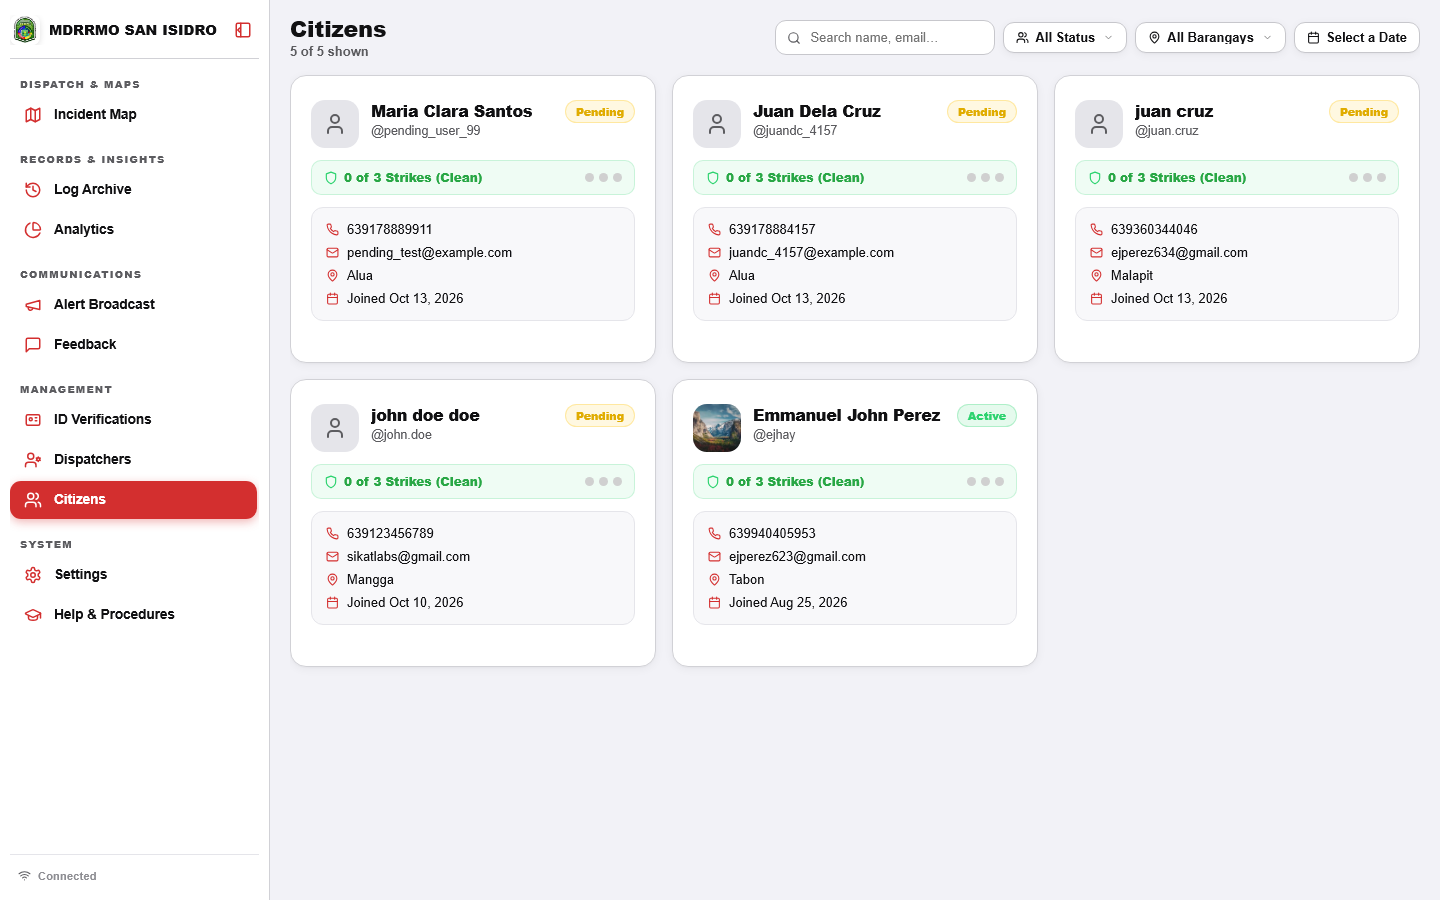
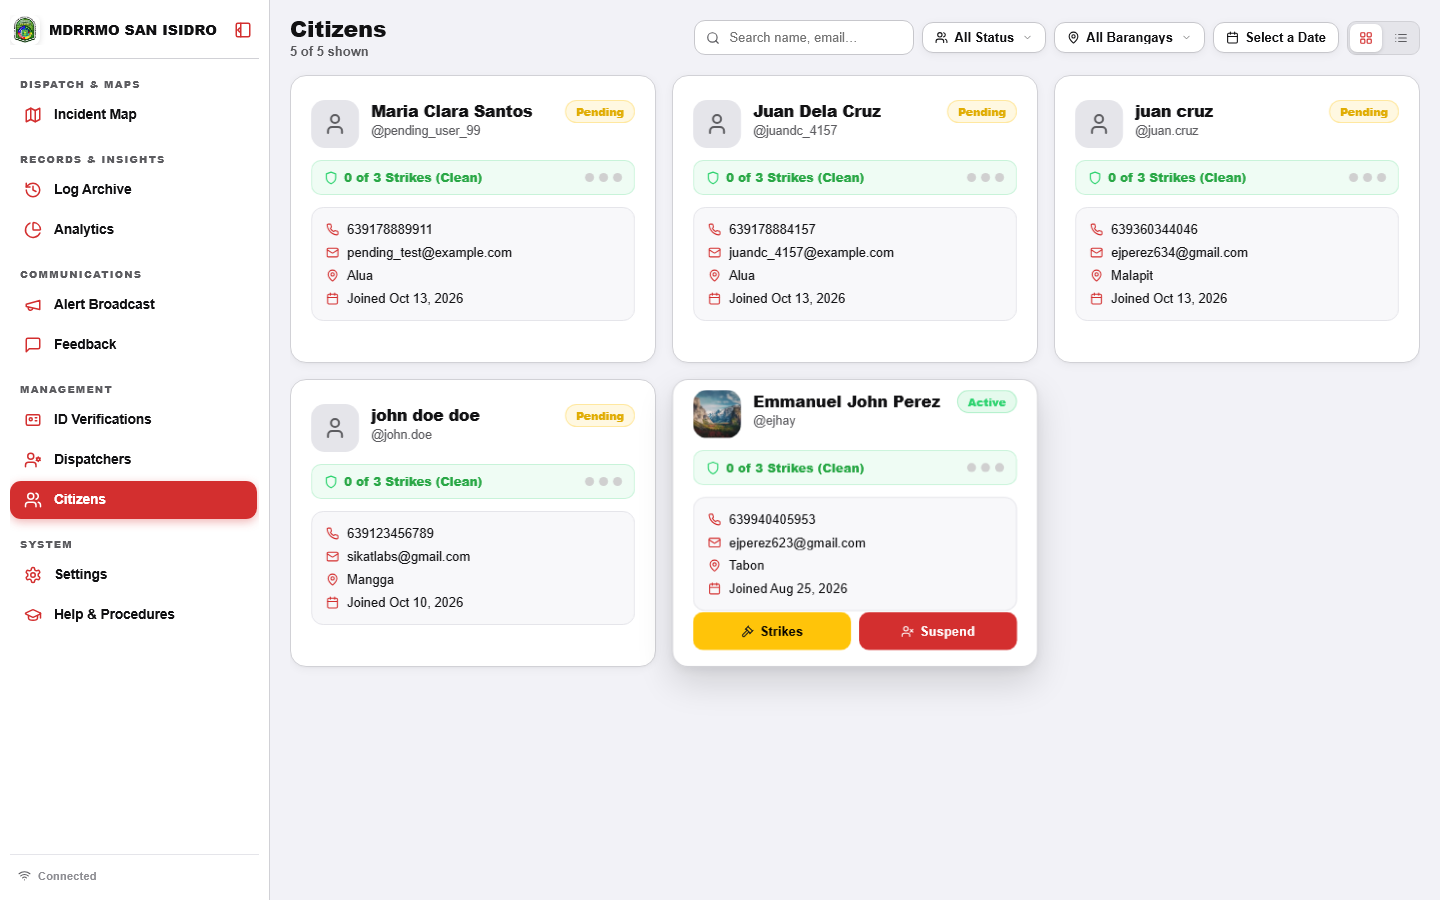
docs(admin): update citizens and dispatchers screenshots with macos finder grid and list views

diff --git a/docs/guides/admin-guide.md b/docs/guides/admin-guide.md
@@ -74,9 +74,15 @@ The **Citizens** panel is a full directory of all registered residents across Sa
 - **Barangay Filter:** Filter residents by any of the 9 official barangays.
 - **Unified Date-Range Filter:** Filter by registration date using Single-Day, Multi-Day, or Custom Date Range.
 - **Status Badges:** `Active`, `Pending`, or `Suspended`.
+- **macOS Finder View Switcher:** Seamlessly switch between the **Grid Card View** and **List Table View** with consistent centered columns and animated card transitions.
+- **Action Menu:** Quick access to citizen actions via hover card controls or an anchored ellipsis button with a pointed popover menu.
 - **Account Moderation:** Suspend abusive accounts (`banned`) or reinstate access with recorded reasons.
 
-![Citizens Directory](../assets/admin/citizens.png)
+### Grid Card View
+![Citizens Directory Grid View](../assets/admin/citizens.png)
+
+### List Table View
+![Citizens Directory List View](../assets/admin/citizens-list.png)
 
 ### False Alarm Strike Manager
 Manage citizen false alarm strikes, issue automated warning notices, and enforce account suspensions directly from the dedicated popup dialog box:
@@ -91,8 +97,13 @@ Dispatchers cannot self-register; they are created and managed directly by admin
 - **Add Dispatcher:** Create a new staff account with Name, Mobile Number, Username, Email, Password, and Assigned Barangay.
 - **Edit Dispatcher:** Update contact details or change assigned information.
 - **Deactivate Dispatcher:** Revoke staff access and invalidate all active session tokens.
+- **macOS Finder View Switcher:** Seamlessly switch between **Grid Card View** and **List Table View** with centered table columns and anchored action dropdowns.
 
-![Staff Dispatchers Directory](../assets/admin/dispatchers.png)
+### Grid Card View
+![Staff Dispatchers Directory Grid View](../assets/admin/dispatchers.png)
+
+### List Table View
+![Staff Dispatchers Directory List View](../assets/admin/dispatchers-list.png)
 
 ### Dispatcher Account Dialog
 Staff creation and assignment editing are presented via an accessible popup dialog box:
